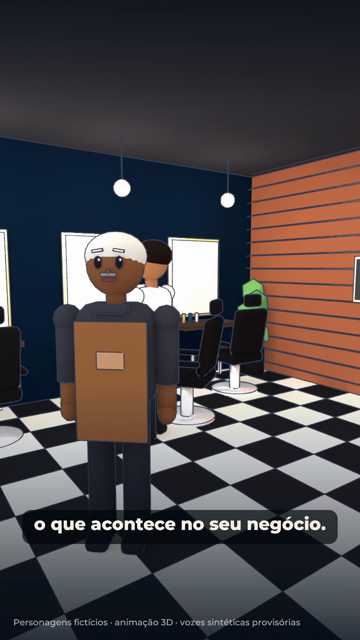
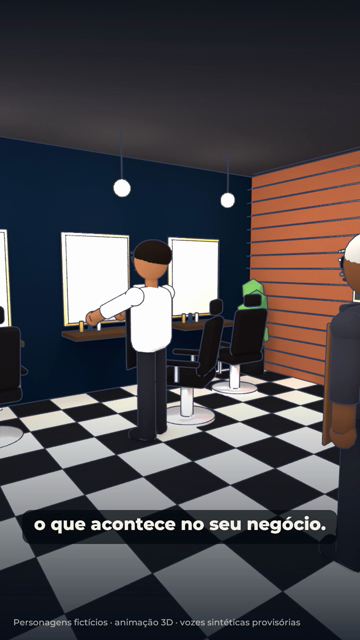
Comerciais: episódio 21 finalizado — capa, storyboard, legendas e descrição
Claude-Session: https://claude.ai/code/session_01RTGPTzQ4JgcFjuN5yBUw9R

Changed region(s): [[0.1528, 0.3438, 0.5194, 0.875], [0.8861, 0.3438, 1.0, 0.9062], [0.3361, 0.8438, 0.3667, 0.875]]

diff --git a/plugins/infinity-guard-dados/skills/conteudo-semanal/videos/comerciais/README.md b/plugins/infinity-guard-dados/skills/conteudo-semanal/videos/comerciais/README.md
@@ -14,6 +14,7 @@ brasileiro, formato vertical 1080x1920 e CTA para **infinityguard.com.br**. Usa 
 | `ep18-o-primeiro-presente-da-loja/` | O primeiro presente da loja (55 s, câmera dome ASECAM) | pronto, com capa, descrição do post e arquivo de projeto; selo Black Friday sem oferta; narração **provisória** (sem Dave) |
 | `ep19-o-misterio-das-plantas/` | O mistério das plantas (55 s, Câmera ASECAM PTZ 4K 8MP) | pronto, com capa, descrição e arquivo de projeto; app ilustrativo; narração **provisória** (sem Dave) |
 | `ep20-a-primeira-porta/` | A primeira porta (60 s, fechadura IG-LOCK-001, primeiro apartamento) | cenário `porta` (apartamento novo + fechadura de alavanca) e `lembranca` (flashbacks); narração **provisória** (sem Dave) |
+| `ep21-a-aposta-do-barbeiro/` | A aposta do barbeiro (60 s, Câmera ASECAM DualLight Pro, barbearia) | cenário `barbearia` (câmera bullet na parede, monitor no balcão); imagem ao vivo ilustrativa; narração **provisória** (sem Dave) |
 
 Cenários prontos: `varanda` (casa térrea com porta, encomenda e vizinho), `loja` (comércio de bairro com porta de
 enrolar, caixa e área privada) e `kit_dupla` (o produto no pedestal). Efeitos sonoros e ambiente saem de `sons.py`

diff --git a/plugins/infinity-guard-direcao/skills/conteudo-semanal/videos/comerciais/README.md b/plugins/infinity-guard-direcao/skills/conteudo-semanal/videos/comerciais/README.md
@@ -14,6 +14,7 @@ brasileiro, formato vertical 1080x1920 e CTA para **infinityguard.com.br**. Usa 
 | `ep18-o-primeiro-presente-da-loja/` | O primeiro presente da loja (55 s, câmera dome ASECAM) | pronto, com capa, descrição do post e arquivo de projeto; selo Black Friday sem oferta; narração **provisória** (sem Dave) |
 | `ep19-o-misterio-das-plantas/` | O mistério das plantas (55 s, Câmera ASECAM PTZ 4K 8MP) | pronto, com capa, descrição e arquivo de projeto; app ilustrativo; narração **provisória** (sem Dave) |
 | `ep20-a-primeira-porta/` | A primeira porta (60 s, fechadura IG-LOCK-001, primeiro apartamento) | cenário `porta` (apartamento novo + fechadura de alavanca) e `lembranca` (flashbacks); narração **provisória** (sem Dave) |
+| `ep21-a-aposta-do-barbeiro/` | A aposta do barbeiro (60 s, Câmera ASECAM DualLight Pro, barbearia) | cenário `barbearia` (câmera bullet na parede, monitor no balcão); imagem ao vivo ilustrativa; narração **provisória** (sem Dave) |
 
 Cenários prontos: `varanda` (casa térrea com porta, encomenda e vizinho), `loja` (comércio de bairro com porta de
 enrolar, caixa e área privada) e `kit_dupla` (o produto no pedestal). Efeitos sonoros e ambiente saem de `sons.py`

diff --git a/plugins/infinity-guard-marketing/skills/conteudo-semanal/videos/comerciais/README.md b/plugins/infinity-guard-marketing/skills/conteudo-semanal/videos/comerciais/README.md
@@ -14,6 +14,7 @@ brasileiro, formato vertical 1080x1920 e CTA para **infinityguard.com.br**. Usa 
 | `ep18-o-primeiro-presente-da-loja/` | O primeiro presente da loja (55 s, câmera dome ASECAM) | pronto, com capa, descrição do post e arquivo de projeto; selo Black Friday sem oferta; narração **provisória** (sem Dave) |
 | `ep19-o-misterio-das-plantas/` | O mistério das plantas (55 s, Câmera ASECAM PTZ 4K 8MP) | pronto, com capa, descrição e arquivo de projeto; app ilustrativo; narração **provisória** (sem Dave) |
 | `ep20-a-primeira-porta/` | A primeira porta (60 s, fechadura IG-LOCK-001, primeiro apartamento) | cenário `porta` (apartamento novo + fechadura de alavanca) e `lembranca` (flashbacks); narração **provisória** (sem Dave) |
+| `ep21-a-aposta-do-barbeiro/` | A aposta do barbeiro (60 s, Câmera ASECAM DualLight Pro, barbearia) | cenário `barbearia` (câmera bullet na parede, monitor no balcão); imagem ao vivo ilustrativa; narração **provisória** (sem Dave) |
 
 Cenários prontos: `varanda` (casa térrea com porta, encomenda e vizinho), `loja` (comércio de bairro com porta de
 enrolar, caixa e área privada) e `kit_dupla` (o produto no pedestal). Efeitos sonoros e ambiente saem de `sons.py`

diff --git a/skills/conteudo-semanal/videos/comerciais/README.md b/skills/conteudo-semanal/videos/comerciais/README.md
@@ -14,6 +14,7 @@ brasileiro, formato vertical 1080x1920 e CTA para **infinityguard.com.br**. Usa 
 | `ep18-o-primeiro-presente-da-loja/` | O primeiro presente da loja (55 s, câmera dome ASECAM) | pronto, com capa, descrição do post e arquivo de projeto; selo Black Friday sem oferta; narração **provisória** (sem Dave) |
 | `ep19-o-misterio-das-plantas/` | O mistério das plantas (55 s, Câmera ASECAM PTZ 4K 8MP) | pronto, com capa, descrição e arquivo de projeto; app ilustrativo; narração **provisória** (sem Dave) |
 | `ep20-a-primeira-porta/` | A primeira porta (60 s, fechadura IG-LOCK-001, primeiro apartamento) | cenário `porta` (apartamento novo + fechadura de alavanca) e `lembranca` (flashbacks); narração **provisória** (sem Dave) |
+| `ep21-a-aposta-do-barbeiro/` | A aposta do barbeiro (60 s, Câmera ASECAM DualLight Pro, barbearia) | cenário `barbearia` (câmera bullet na parede, monitor no balcão); imagem ao vivo ilustrativa; narração **provisória** (sem Dave) |
 
 Cenários prontos: `varanda` (casa térrea com porta, encomenda e vizinho), `loja` (comércio de bairro com porta de
 enrolar, caixa e área privada) e `kit_dupla` (o produto no pedestal). Efeitos sonoros e ambiente saem de `sons.py`
